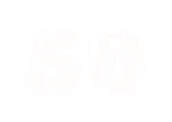
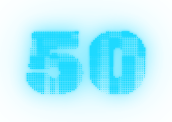
Add knob sounds, revert metronome to single toggle, recolor BPM gradient
- Home: Time and Level knobs now play their own recorded sample (via a
  shared playSample() helper generalized from the lever switch sound)
  instead of the generic UI click.
- Game: metronome is one toggle button again instead of separate
  Start/Stop buttons - easier to hit on a phone. Reuses the same two
  icon crops, swapping the image like Home's knob/readout states do.
- Recolored all 21 BPM speed pills into one continuous hue gradient
  (cyan at 50 -> red at 150) by converting each pixel to HSV and
  replacing hue+saturation while preserving its original brightness -
  keeps the glow/shading intact and fixes the old 50-65 tier, which
  was washed out to near-invisible white-on-white.

diff --git a/src/js/audio.js b/src/js/audio.js
@@ -71,38 +71,50 @@ export function playUIClick() {
   playClick(getContext(), { frequency: 1400, duration: 0.02 });
 }
 
-// Lever toggle: recorded "on"/"off" switch samples, decoded once and cached
-// - distinct from the synthesized button click, and different per direction
-// like a real flip switch.
-const SWITCH_SAMPLE_URLS = {
-  on: 'assets/audio/switch-on.mp3',
-  off: 'assets/audio/switch-off.mp3',
-};
-const switchBuffers = {};
+// Recorded-sample playback, decoded once per URL and cached for replay -
+// used for the lever switch and the Home knobs, each distinct from the
+// synthesized generic button click.
+const sampleBuffers = {};
 
-function loadSwitchBuffer(ctx, key) {
-  if (!switchBuffers[key]) {
-    switchBuffers[key] = fetch(SWITCH_SAMPLE_URLS[key])
+function loadSample(ctx, url) {
+  if (!sampleBuffers[url]) {
+    sampleBuffers[url] = fetch(url)
       .then((res) => res.arrayBuffer())
       .then((data) => ctx.decodeAudioData(data));
   }
-  return switchBuffers[key];
+  return sampleBuffers[url];
 }
 
-export async function playLeverClick(engaged) {
+async function playSample(url, gainValue = UI_CLICK_GAIN * 2) {
   const ctx = getContext();
   try {
-    const buffer = await loadSwitchBuffer(ctx, engaged ? 'on' : 'off');
+    const buffer = await loadSample(ctx, url);
     const source = ctx.createBufferSource();
     source.buffer = buffer;
     const gain = ctx.createGain();
-    gain.gain.value = UI_CLICK_GAIN * 2;
+    gain.gain.value = gainValue;
     source.connect(gain);
     gain.connect(ctx.destination);
     source.start(ctx.currentTime);
   } catch {
-    // Sample failed to load/decode - silently skip rather than break the toggle.
+    // Sample failed to load/decode - silently skip rather than break the interaction.
   }
+}
+
+// Lever toggle: distinct "on"/"off" switch samples, like a real flip switch
+// sounding different in each direction.
+export function playLeverClick(engaged) {
+  return playSample(engaged ? 'assets/audio/switch-on.mp3' : 'assets/audio/switch-off.mp3');
+}
+
+// Home knobs: each has its own recorded detent sound, distinct from the
+// generic UI click used by every other button.
+export function playTimeKnobClick() {
+  return playSample('assets/audio/time-knob.mp3');
+}
+
+export function playLevelKnobClick() {
+  return playSample('assets/audio/level-knob.mp3');
 }
 
 function silenceNow(ctx, node) {

diff --git a/src/js/game.js b/src/js/game.js
@@ -23,8 +23,8 @@ const scoreEl = document.getElementById('score');
 const bpmReadout = document.getElementById('bpm-readout');
 const bpmMinus = document.getElementById('bpm-minus');
 const bpmPlus = document.getElementById('bpm-plus');
-const metronomeStartBtn = document.getElementById('metronome-start-btn');
-const metronomeStopBtn = document.getElementById('metronome-stop-btn');
+const metronomeBtn = document.getElementById('metronome-btn');
+const metronomeBtnImg = document.getElementById('metronome-btn-img');
 const refreshBtn = document.getElementById('refresh-btn');
 const tipBtn = document.getElementById('tip-btn');
 const listenBtn = document.getElementById('listen-btn');
@@ -107,7 +107,7 @@ function stopMetronome() {
   if (metronome && metronome.isRunning) {
     metronome.stop();
   }
-  metronomeStartBtn.classList.remove('active');
+  metronomeBtnImg.src = 'assets/game-vertical-v2/parts/metronome-start.png';
 }
 
 bpmMinus.addEventListener('click', () => {
@@ -124,18 +124,15 @@ bpmPlus.addEventListener('click', () => {
   saveState(currentState);
 });
 
-// Start and Stop are two separate physical buttons on this console (not a
-// single toggle) - pressing Start while already running is a no-op.
-metronomeStartBtn.addEventListener('click', async () => {
+metronomeBtn.addEventListener('click', async () => {
   if (!metronome) metronome = createMetronome(() => currentState.bpm);
-  if (metronome.isRunning) return;
-  stopListen();
-  await metronome.start();
-  metronomeStartBtn.classList.add('active');
-});
-
-metronomeStopBtn.addEventListener('click', () => {
-  stopMetronome();
+  if (metronome.isRunning) {
+    stopMetronome();
+  } else {
+    stopListen();
+    await metronome.start();
+    metronomeBtnImg.src = 'assets/game-vertical-v2/parts/metronome-stop.png';
+  }
 });
 
 refreshBtn.addEventListener('click', () => {

diff --git a/src/css/style.css b/src/css/style.css
@@ -448,11 +448,9 @@ h1 {
   height: 6%;
 }
 
-/* Minus/plus and Start/Stop are real button graphics now (not text), each
-   positioned at its own printed location - Start/Stop is one wide plate
-   split into two separate press zones (play left half, stop right half). */
-.bpm-icon-btn,
-.metronome-transport-btn {
+/* Minus/plus are real button graphics now (not text), each positioned at
+   its own printed location. */
+.bpm-icon-btn {
   position: absolute;
   background: transparent;
   border: none;
@@ -461,8 +459,7 @@ h1 {
   outline: none;
 }
 
-.bpm-icon-btn img,
-.metronome-transport-btn img {
+.bpm-icon-btn img {
   width: 100%;
   height: 100%;
   display: block;
@@ -476,12 +473,30 @@ h1 {
 
 .bpm-minus-btn { left: 13.85%; top: 19.12%; width: 12.39%; height: 5.13%; }
 .bpm-plus-btn { left: 74.36%; top: 19.04%; width: 12.14%; height: 5.06%; }
-.metronome-start-btn { left: 34.36%; top: 24.96%; width: 14.7%; height: 5.21%; }
-.metronome-stop-btn { left: 49.15%; top: 24.96%; width: 14.7%; height: 5.21%; }
 
-.metronome-transport-btn.active {
-  border-radius: 8px;
-  box-shadow: 0 0 0 2px var(--accent), 0 0 14px -2px var(--accent-glow);
+/* A single toggle button (like the Home knobs, one graphic swapped by
+   state) - the delivered art was one plate with both a play and a stop
+   icon side by side, but a single physical button is easier to hit on a
+   phone, so this spans that whole plate and flex-centers whichever icon
+   is current instead of using two separate press zones. */
+.metronome-toggle-btn {
+  position: absolute;
+  left: 41.75%;
+  top: 24.96%;
+  width: 14.7%;
+  height: 5.21%;
+  background: transparent;
+  border: none;
+  padding: 0;
+  cursor: pointer;
+  outline: none;
+}
+
+.metronome-toggle-btn img {
+  width: 100%;
+  height: 100%;
+  display: block;
+  pointer-events: none;
 }
 
 .score-frame {

diff --git a/src/js/home.js b/src/js/home.js
@@ -2,7 +2,7 @@ import { figureById, isPoolValid } from './figures.js';
 import { PRESETS, MIN_LEVEL, MAX_LEVEL } from './presets.js';
 import { loadState, saveState, DEFAULT_STATE } from './state.js';
 import { startGame, registerHomeReset } from './game.js';
-import { playUIClick, playLeverClick } from './audio.js';
+import { playUIClick, playLeverClick, playTimeKnobClick, playLevelKnobClick } from './audio.js';
 
 const TIME_SIGNATURES = [2, 3, 4];
 
@@ -191,7 +191,7 @@ export function initHome() {
   }
 
   timeKnob.addEventListener('click', () => {
-    playUIClick();
+    playTimeKnobClick();
     const index = TIME_SIGNATURES.indexOf(state.time);
     state.time = TIME_SIGNATURES[(index + 1) % TIME_SIGNATURES.length];
     refreshTimeUI();
@@ -199,7 +199,7 @@ export function initHome() {
   });
 
   levelKnob.addEventListener('click', () => {
-    playUIClick();
+    playLevelKnobClick();
     state.level = state.level >= MAX_LEVEL ? MIN_LEVEL : state.level + 1;
     state.pool = [...PRESETS[state.level]];
     refreshLevelUI();

diff --git a/index.html b/index.html
@@ -52,11 +52,8 @@
           <img src="assets/game-vertical-v2/parts/metronome-plus.png" alt="">
         </button>
 
-        <button type="button" class="metronome-transport-btn metronome-start-btn" id="metronome-start-btn" aria-label="Start the metronome">
-          <img src="assets/game-vertical-v2/parts/metronome-start.png" alt="">
-        </button>
-        <button type="button" class="metronome-transport-btn metronome-stop-btn" id="metronome-stop-btn" aria-label="Stop the metronome">
-          <img src="assets/game-vertical-v2/parts/metronome-stop.png" alt="">
+        <button type="button" class="metronome-toggle-btn" id="metronome-btn" aria-label="Start or stop the metronome">
+          <img id="metronome-btn-img" src="assets/game-vertical-v2/parts/metronome-start.png" alt="">
         </button>
 
         <div class="score-frame">
